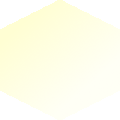
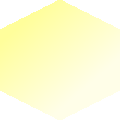
Fixed walking on water and other objects. Changed walkableHex image to be brighter.

diff --git a/core/src/com/fantasticfive/server/RemoteGame.java b/core/src/com/fantasticfive/server/RemoteGame.java
@@ -320,8 +320,8 @@ public class RemoteGame extends UnicastRemoteObject implements IRemoteGame {
         //Check if hex isn't water, mountain or possessed by a building
         Hexagon hex = map.getHexAtLocation(location);
         return (hex.getObjectType() != ObjectType.MOUNTAIN
-                || hex.getGroundType() != GroundType.WATER
-                || getBuildingAtLocation(location) == null);
+                && hex.getGroundType() != GroundType.WATER
+                && getBuildingAtLocation(location) == null);
     }
 
     public boolean hexEmptyResource(Point location) throws RemoteException {
